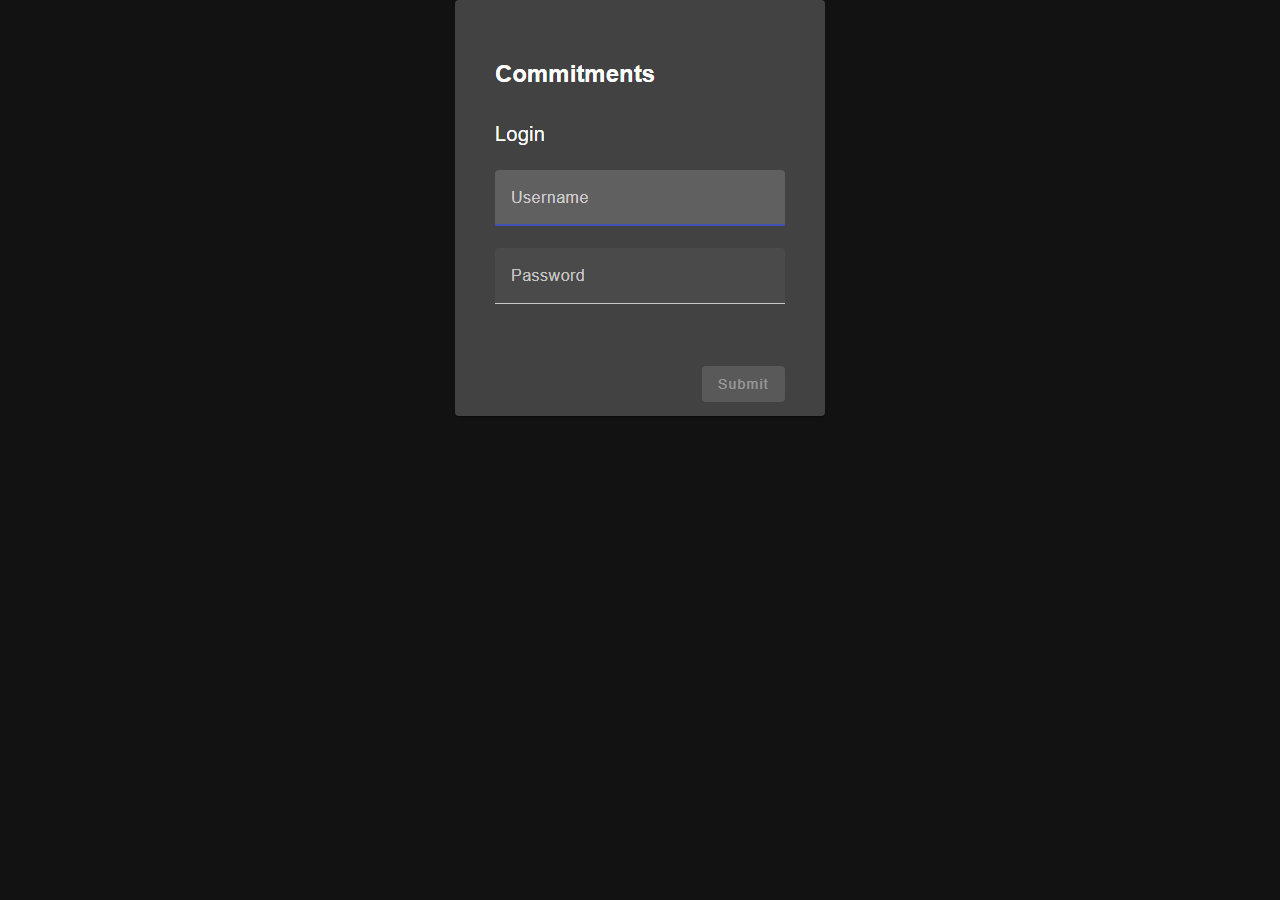
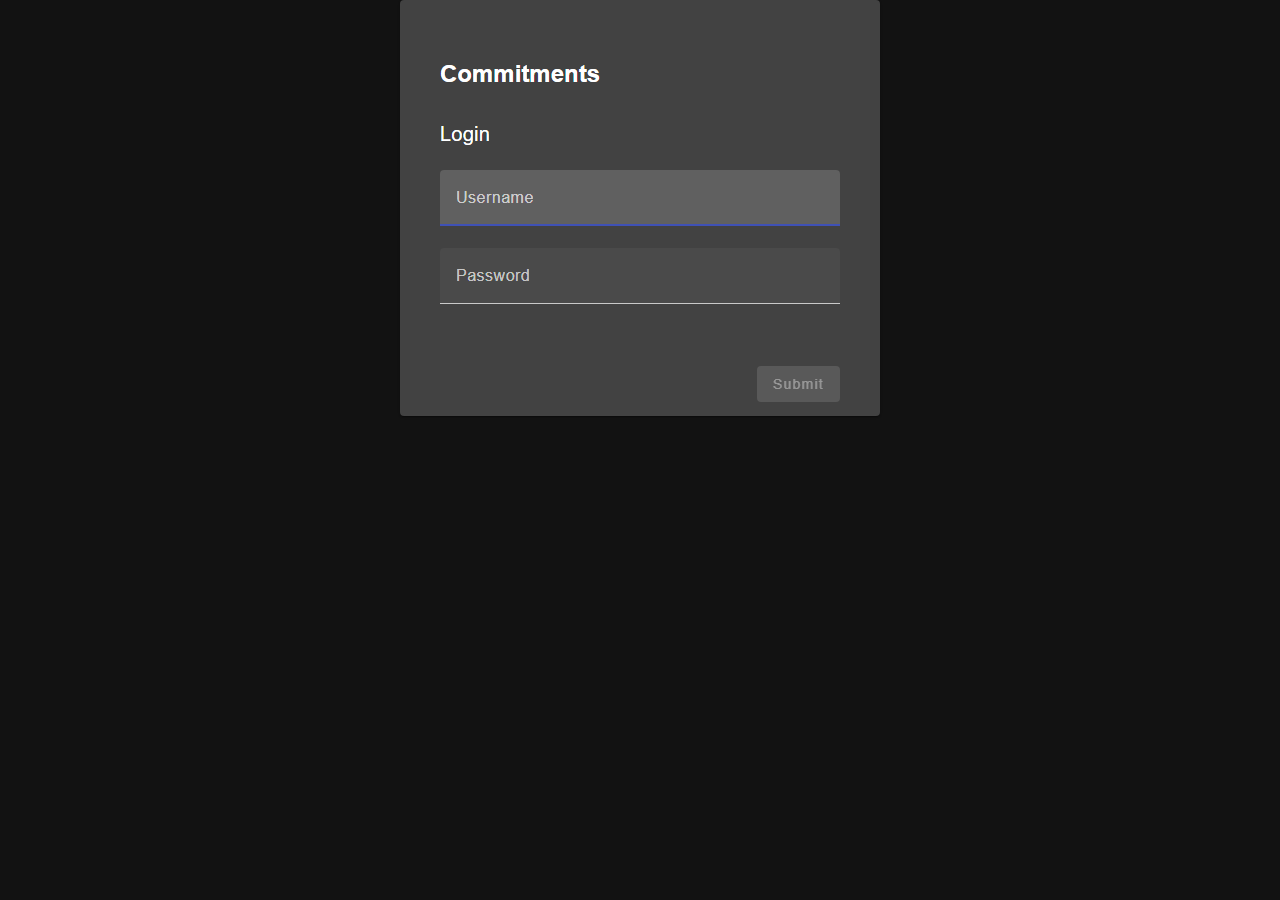
fix(authentication): widen login card to design's 480 px
Closes bug 005. One-character change to
login-page.component.scss: max-width 370 -> 480, matching the LG
(1280) and XL (1920) frames in docs/ui-design.pen.

All three Playwright tests pass (form renders, dark bg, 480 px
card).

Audit (radical simplicity, 2x):
  a) Already a single CSS literal - cannot be smaller.
  b) Card visually matches the design proportions on the dark
     surface; no other UI elements affected.
  c) Junior-dev friendly: one number changed in one rule.

Changed region(s): [[0.3125, 0.0, 0.5312, 0.4667], [0.5625, 0.0, 0.6875, 0.4667]]

diff --git a/frontend/projects/commitments-app/src/app/pages/login/login-page/login-page.component.scss b/frontend/projects/commitments-app/src/app/pages/login/login-page/login-page.component.scss
@@ -9,7 +9,7 @@
 
 mat-card {
   margin: 0 auto;
-  max-width: 370px;
+  max-width: 480px;
   width: 100%;
   height: 416px;
   padding: 40px 40px 40px 40px;
